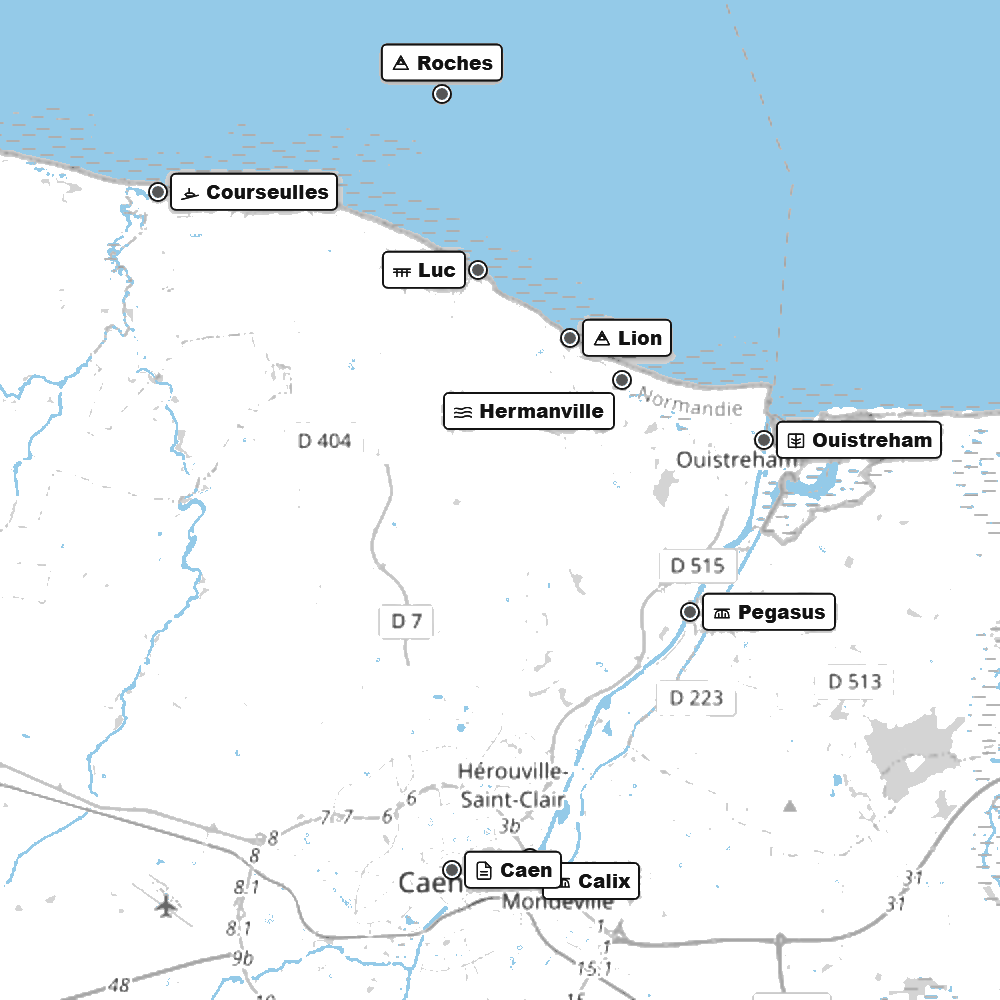
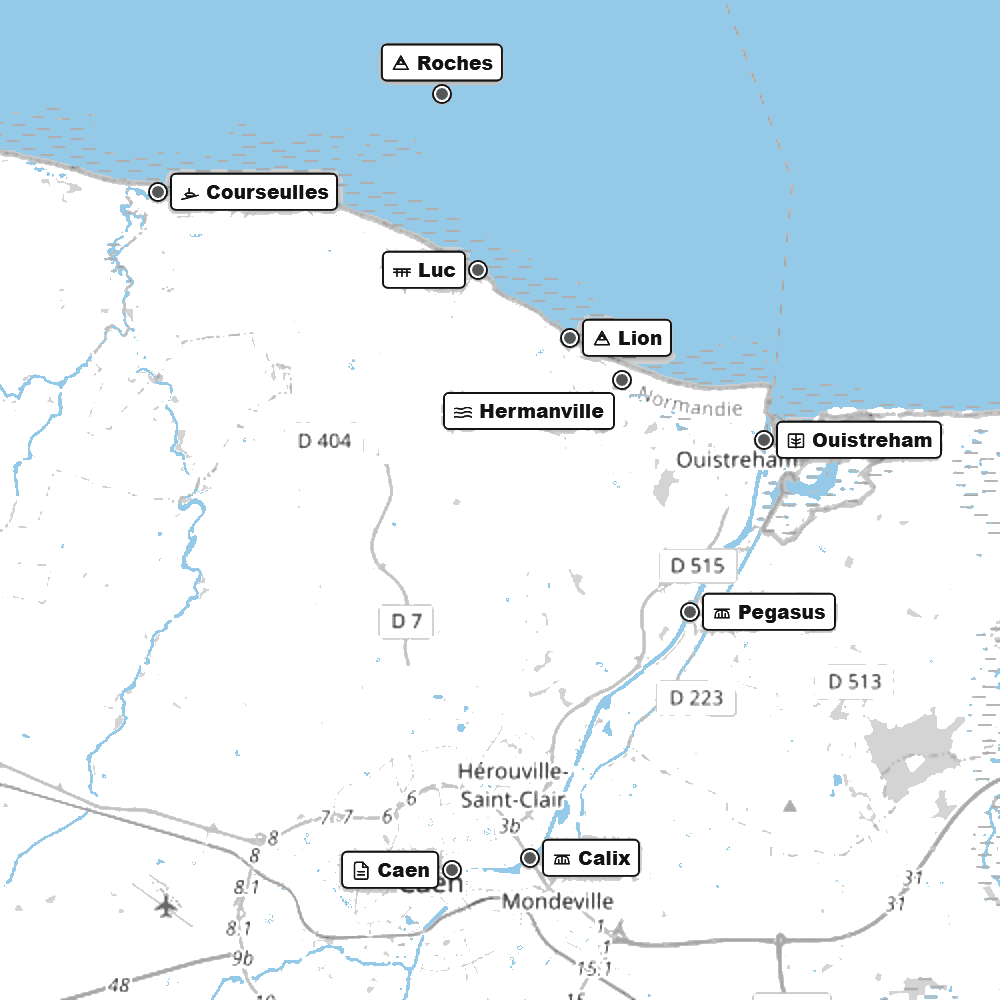
feat(maps): separer nettement Caen et Calix et rendre le badge OSM cliquable vers les coordonnees exactes

Changed region(s): [[0.341, 0.837, 0.651, 0.899]]

diff --git a/site/js/geo-maps.js b/site/js/geo-maps.js
@@ -17,7 +17,13 @@ export function renderCanalDedicatedMap(fish) {
         <div class="map-header-title">
           ${uiIcon('anchor')} <span>Topographie & Postes Clés : Canal de Caen à la mer (14 km)</span>
         </div>
-        <span class="map-badge-osm">Cartographie OpenStreetMap</span>
+        <a
+          href="https://www.openstreetmap.org/#map=13/49.2330/-0.3015"
+          target="_blank"
+          rel="noopener noreferrer"
+          class="map-badge-osm"
+          title="Ouvrir le Canal de Caen sur OpenStreetMap"
+        >OSM ↗</a>
       </div>
       <div class="map-img-wrap">
         <img
@@ -67,7 +73,13 @@ export function renderCoteDeNacreDedicatedMap(fish) {
         <div class="map-header-title">
           ${uiIcon('boat')} <span>Fonds Marins & Amers : Côte de Nacre (Courseulles ➔ Ouistreham)</span>
         </div>
-        <span class="map-badge-osm">Cartographie OpenStreetMap</span>
+        <a
+          href="https://www.openstreetmap.org/#map=12/49.3175/-0.3450"
+          target="_blank"
+          rel="noopener noreferrer"
+          class="map-badge-osm"
+          title="Ouvrir la Côte de Nacre sur OpenStreetMap"
+        >OSM ↗</a>
       </div>
       <div class="map-img-wrap">
         <img
@@ -114,7 +126,13 @@ export function renderRegionalMiniMap() {
     <div class="regional-mini-map" aria-label="Carte OpenStreetMap de situation Canal de Caen et Côte de Nacre">
       <div class="mini-map-title-row">
         <span class="mini-map-title">Littoral Calvados • Caen ➔ Mer</span>
-        <span class="mini-map-tag">OSM</span>
+        <a
+          href="https://www.openstreetmap.org/#map=11/49.2670/-0.3400"
+          target="_blank"
+          rel="noopener noreferrer"
+          class="mini-map-tag"
+          title="Ouvrir le secteur Caen - Côte de Nacre sur OpenStreetMap"
+        >OSM ↗</a>
       </div>
       <div class="mini-map-img-wrap">
         <img

diff --git a/site/css/06-card-back.css b/site/css/06-card-back.css
@@ -667,11 +667,23 @@
   font-family: var(--font-mono);
   font-size: 0.55rem;
   font-weight: 700;
-  padding: 0.08rem 0.35rem;
+  padding: 0.08rem 0.4rem;
   border-radius: var(--radius-full);
   background: var(--theme-surface-inset);
   color: var(--theme-text-muted);
   border: 1px solid var(--theme-surface-subtle-border);
+  text-decoration: none;
+  cursor: pointer;
+  display: inline-flex;
+  align-items: center;
+  transition: opacity 0.15s ease, background-color 0.15s ease, color 0.15s ease;
+}
+
+.map-badge-osm:hover {
+  opacity: 0.85;
+  background: var(--theme-surface-subtle);
+  color: var(--theme-text-title);
+  border-color: var(--theme-border-title);
 }
 
 .map-img-wrap,

diff --git a/site/css/05-card-front.css b/site/css/05-card-front.css
@@ -607,11 +607,22 @@
   font-family: var(--font-mono);
   font-size: 0.52rem;
   font-weight: 800;
-  padding: 0.05rem 0.25rem;
+  padding: 0.05rem 0.28rem;
   border-radius: 2px;
   background: var(--theme-canal-badge-bg);
   color: var(--theme-canal-badge-text);
   border: 1px solid var(--theme-canal-badge-border);
+  text-decoration: none;
+  cursor: pointer;
+  display: inline-flex;
+  align-items: center;
+  transition: opacity 0.15s ease, background-color 0.15s ease;
+}
+
+.mini-map-tag:hover {
+  opacity: 0.85;
+  background: var(--theme-surface-subtle);
+  color: var(--theme-text-title);
 }
 
 .mini-map-img-wrap,
